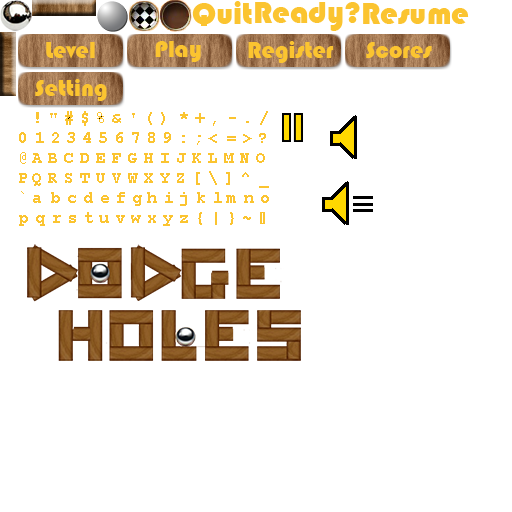
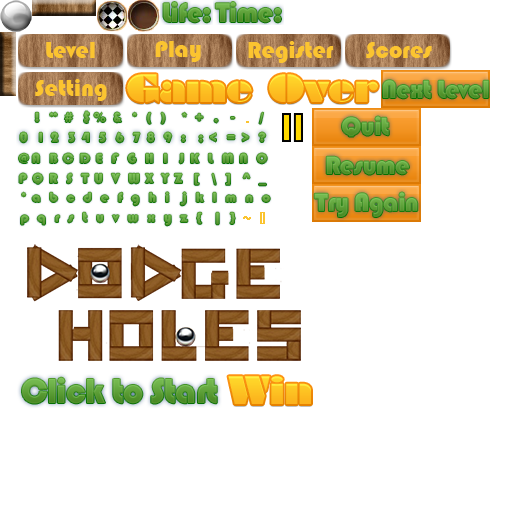
Perfezionamento parte grafica

diff --git a/DodgeHoles/src/it/unisa/dodgeholes/GameScreen.java b/DodgeHoles/src/it/unisa/dodgeholes/GameScreen.java
@@ -41,6 +41,8 @@ public class GameScreen extends GLScreen {
     Rectangle pauseBounds;
     Rectangle resumeBounds;
     Rectangle quitBounds;
+    Rectangle nextLevelBounds;
+    Rectangle tryAgainBounds;
       
     FPSCounter fpsCounter;
     
@@ -70,8 +72,11 @@ public class GameScreen extends GLScreen {
         world = new World(worldListener, this.numLevel);
         renderer = new WorldRenderer(glGraphics, batcher, world);
         pauseBounds = new Rectangle(480- 52, 320- 18-20, 40, 40);
-        resumeBounds = new Rectangle(240-55, 160-13, 110, 27);
-        quitBounds = new Rectangle(240-30, 160-27-13, 61, 27);
+        resumeBounds = new Rectangle(240-54, 160-19, 109, 38);
+        quitBounds = new Rectangle(240-54, 160-45-19, 109, 38);
+        nextLevelBounds = new Rectangle(240-54, 160-19, 109, 38);
+        tryAgainBounds = new Rectangle(240-54, 160-19, 109, 38);
+        
         
         fpsCounter = new FPSCounter();
         
@@ -183,11 +188,25 @@ public class GameScreen extends GLScreen {
 	        TouchEvent event = touchEvents.get(i);
 	        if(event.type != TouchEvent.TOUCH_UP)
 	            continue;
-	        this.counter=0;
-	        world = new World(worldListener,world.getNumLevel()+1);
-	        renderer = new WorldRenderer(glGraphics, batcher, world);
 	        
-	        state = GAME_READY;
+	        touchPoint.set(event.x, event.y);
+	        guiCam.touchToWorld(touchPoint);
+	        
+	        if(OverlapTester.pointInRectangle(nextLevelBounds, touchPoint)) {
+	            
+	        	this.counter=0;
+		        world = new World(worldListener,world.getNumLevel()+1);
+		        renderer = new WorldRenderer(glGraphics, batcher, world);
+		        state = GAME_READY;
+	            return;
+	        }
+	        
+	        if(OverlapTester.pointInRectangle(quitBounds, touchPoint)) {
+	            
+	            game.setScreen(new MainMenuScreen(game));
+	            return;
+	        }
+	        
 	    }
 	}
 	
@@ -198,7 +217,24 @@ public class GameScreen extends GLScreen {
 	        TouchEvent event = touchEvents.get(i);
 	        if(event.type != TouchEvent.TOUCH_UP)
 	            continue;
-	        game.setScreen(new MainMenuScreen(game));
+	        
+	        touchPoint.set(event.x, event.y);
+	        guiCam.touchToWorld(touchPoint);
+	        
+	        if(OverlapTester.pointInRectangle(tryAgainBounds, touchPoint)) {
+	            
+	        	this.counter=0;
+		        world = new World(worldListener,world.getNumLevel());
+		        renderer = new WorldRenderer(glGraphics, batcher, world);
+		        state = GAME_READY;
+	            return;
+	        }
+	        
+	        if(OverlapTester.pointInRectangle(quitBounds, touchPoint)) {
+	            
+	            game.setScreen(new MainMenuScreen(game));
+	            return;
+	        }
 	    }
 	}
 
@@ -240,33 +276,43 @@ public class GameScreen extends GLScreen {
 	
 	private void presentReady() 
 	{
-	    batcher.drawSprite(240, 160, 108, 32, Assets.ready);
-	    
-	    Assets.font.drawText(batcher, "Life:", 14, 320 - 18);
-	    Assets.font.drawText(batcher, "Time:"+(int)counter+"s", 240, 320 - 18);
+		batcher.drawSprite(35, 320 - 18, 53, 25, Assets.lifeWrite);
+	    batcher.drawSprite(260, 320 - 18, 71, 25, Assets.timeWrite);
+	    Assets.font.drawText(batcher,(int)counter+"s", 311, 320 - 18);
+		
+	    batcher.drawSprite(240, 160, 208, 38, Assets.ready);
 	}
 	
 	private void presentRunning() 
 	{
 	    batcher.drawSprite(480 - 32, 320 - 18, 40, 40, Assets.pause);
 	    
-	    Assets.font.drawText(batcher, "Life:", 14, 320 - 18);
-	    Assets.font.drawText(batcher, "Time:"+(int)counter+"s", 240, 320 - 18);
+	    batcher.drawSprite(35, 320 - 18, 53, 25, Assets.lifeWrite);
+	    batcher.drawSprite(260, 320 - 18, 71, 25, Assets.timeWrite);
+	    Assets.font.drawText(batcher,(int)counter+"s", 311, 320 - 18);
 	}
 	
 	private void presentPaused() 
 	{ 
-		Assets.font.drawText(batcher, "Life:", 14, 320 - 18);
-	    Assets.font.drawText(batcher, "Time:"+(int)counter+"s", 240, 320 - 18);
 		
-	    batcher.drawSprite(240, 160, 110, 27, Assets.resume);
-	    batcher.drawSprite(240, 160-27, 61, 27, Assets.quit);
+		batcher.drawSprite(35, 320 - 18, 53, 25, Assets.lifeWrite);
+	    batcher.drawSprite(260, 320 - 18, 71, 25, Assets.timeWrite);
+	    Assets.font.drawText(batcher,(int)counter+"s", 311, 320 - 18);
+	    
+	    batcher.drawSprite(240, 160, 109, 38, Assets.resume);
+	    batcher.drawSprite(240, 160-45, 109, 38, Assets.quit);
 	    
 	}
 	
 	private void presentLevelEnd()
 	{
-		Assets.font.drawText(batcher, "CLICK TO NEXT LEVEL", 200, 160);
+		batcher.drawSprite(35, 320 - 18, 53, 25, Assets.lifeWrite);
+	    batcher.drawSprite(260, 320 - 18, 71, 25, Assets.timeWrite);
+	    Assets.font.drawText(batcher,(int)counter+"s", 311, 320 - 18);
+		
+		batcher.drawSprite(240, 200, 92, 38, Assets.win);
+		batcher.drawSprite(240, 160, 109, 38, Assets.nextLevel);
+		batcher.drawSprite(240, 160-45, 109, 38, Assets.quit);
 		/*Ho commentato per poter gestire i messaggi di fine livello
 		SQLiteDatabase db = this.database.getReadableDatabase();
 		String sql = "SELECT * FROM access where livello=\"Livello"+numLevel+"\"";
@@ -298,7 +344,13 @@ public class GameScreen extends GLScreen {
 	
 	private void presentGameOver() 
 	{
-		Assets.font.drawText(batcher, "GAME OVER", 240, 160);
+		batcher.drawSprite(35, 320 - 18, 53, 25, Assets.lifeWrite);
+	    batcher.drawSprite(260, 320 - 18, 71, 25, Assets.timeWrite);
+	    Assets.font.drawText(batcher,(int)counter+"s", 311, 320 - 18);
+		
+		 batcher.drawSprite(240, 200, 256, 38, Assets.gameOver);
+		 batcher.drawSprite(240, 160, 109, 38, Assets.tryAgain);
+		 batcher.drawSprite(240, 160-45, 109, 38, Assets.quit);
 	}
 	
 	

diff --git a/DodgeHoles/src/it/unisa/dodgeholes/Assets.java b/DodgeHoles/src/it/unisa/dodgeholes/Assets.java
@@ -20,6 +20,8 @@ public class Assets {
     public static Texture myitem;
     
     public static TextureRegion life;
+    public static TextureRegion lifeWrite;
+    public static TextureRegion timeWrite;
     
     public static TextureRegion play;
     public static TextureRegion level;
@@ -30,10 +32,10 @@ public class Assets {
     public static TextureRegion resume;
     public static TextureRegion quit;
     public static TextureRegion ready;
+    public static TextureRegion nextLevel;
+    public static TextureRegion tryAgain;
     
     public static TextureRegion logo;
-    //public static TextureRegion soundOn;
-    //public static TextureRegion soundOff;
     
     public static TextureRegion pause;   
    
@@ -42,6 +44,9 @@ public class Assets {
     public static TextureRegion endHole;
     public static TextureRegion obstacleH;
     public static TextureRegion obstacleV;
+    
+    public static TextureRegion gameOver;
+    public static TextureRegion win;
     
     
     public static Music music;
@@ -67,7 +72,9 @@ public class Assets {
         
         
         
-        life=new TextureRegion(myitem,96,0,32,32);
+        life=new TextureRegion(myitem,0,0,32,32);
+        lifeWrite=new TextureRegion(myitem,160,0,53,25);
+        timeWrite=new TextureRegion(myitem,213,0,71,25);
         
         play=new TextureRegion(myitem,125,32,109,38);
         scores=new TextureRegion(myitem,343,32,109,38);
@@ -75,23 +82,26 @@ public class Assets {
         setting=new TextureRegion(myitem,17,70,109,38);
         register=new TextureRegion(myitem,234,32,109,38);
         
-        resume=new TextureRegion(myitem, 361, 0, 110, 27);
-        quit=new TextureRegion(myitem, 192, 0, 61, 27);
+        resume=new TextureRegion(myitem, 312, 146, 109, 38);
+        quit=new TextureRegion(myitem, 312, 108, 109, 38);
+        nextLevel=new TextureRegion(myitem, 381, 70, 109, 38);
+        tryAgain=new TextureRegion(myitem, 312, 184, 109, 38);
         
-        ready = new TextureRegion(myitem, 253, 0, 108, 32);//
+        ready = new TextureRegion(myitem, 16, 371, 208, 38);//
         
         logo = new TextureRegion(myitem, 16, 236, 300, 135);//
-        //soundOff = new TextureRegion(myitem, 312, 108, 64, 64);//
-        //soundOn = new TextureRegion(myitem, 312, 172, 64, 64);//
-       
+        
         pause = new TextureRegion(myitem, 272, 108, 40, 40);//
         
        
         ball = new TextureRegion(myitem, 0, 0, 32, 32);
-        hole = new TextureRegion(myitem, 160, 0, 32, 32);
-        endHole = new TextureRegion(myitem, 128, 0, 32, 32);
+        hole = new TextureRegion(myitem, 128, 0, 32, 32);
+        endHole = new TextureRegion(myitem, 96, 0, 32, 32);
         obstacleH=new TextureRegion(myitem, 32, 0, 64, 16);
         obstacleV=new TextureRegion(myitem, 0, 32, 16, 64);
+        
+        gameOver=new TextureRegion(myitem, 125, 70, 256, 38);
+        win=new TextureRegion(myitem, 224, 371, 92, 38);
         
         
         font = new Font(myitem, 16, 108, 16, 16, 20);

diff --git a/DodgeHoles/src/it/unisa/dodgeholes/Level1.java b/DodgeHoles/src/it/unisa/dodgeholes/Level1.java
@@ -19,36 +19,30 @@ public class Level1 implements Level {
 		obstaclesH=generateObstaclesH();
 		obstaclesV=generateObstaclesV();
 		lifes=generateLifes();
-		endHole=new EndHole(13.9f,2f);
+		endHole=new EndHole(13.9f,8f);
 	}
 	
 	private ArrayList<Hole> generateHoles()
 	{
 		ArrayList<Hole> h=new ArrayList<Hole>();
-		Hole h1=new Hole(3.6f,7.4f);
-		Hole h2=new Hole(5.1f,6.5f);
-		Hole h3=new Hole(8f,5.1f);
-		Hole h4=new Hole(13.5f,3.2f);
+		Hole h1=new Hole(1f,6f);
+		Hole h2=new Hole(3f,1.9f);
+		Hole h3=new Hole(7.5f,7.5f);
+		Hole h4=new Hole(12f,1.9f);
+		
 		
 		h.add(h1);
 		h.add(h2);
 		h.add(h3);
 		h.add(h4);
+		
 		return h;
 	}
 	
 	private ArrayList<ObstacleH> generateObstaclesH()
 	{
 		ArrayList<ObstacleH> o=new ArrayList<ObstacleH>();
-		ObstacleH o1=new ObstacleH(1.4f,7.5f);
-		ObstacleH o2=new ObstacleH(2.4f,5f);
-		ObstacleH o3=new ObstacleH(5.2f,5.3f);
-		ObstacleH o4=new ObstacleH(10.1f,4.1f);
 		
-		o.add(o1);
-		o.add(o2);
-		o.add(o3);
-		o.add(o4);
 		
 		return o;
 	}
@@ -56,10 +50,25 @@ public class Level1 implements Level {
 	private ArrayList<ObstacleV> generateObstaclesV()
 	{
 		ArrayList<ObstacleV> o=new ArrayList<ObstacleV>();
-		ObstacleV o1=new ObstacleV(3f,2.5f);
-		
+		ObstacleV o1=new ObstacleV(3f,7.9f);
+		ObstacleV o2=new ObstacleV(3f,5.8f);
+		ObstacleV o3=new ObstacleV(3f,3.7f);
+		ObstacleV o4=new ObstacleV(7.5f,1.5f);
+		ObstacleV o5=new ObstacleV(7.5f,3.6f);
+		ObstacleV o6=new ObstacleV(7.5f,5.7f);
+		ObstacleV o7=new ObstacleV(12f,7.9f);
+		ObstacleV o8=new ObstacleV(12f,5.8f);
+		ObstacleV o9=new ObstacleV(12f,3.7f);
 		
 		o.add(o1);
+		o.add(o2);
+		o.add(o3);
+		o.add(o4);
+		o.add(o5);
+		o.add(o6);
+		o.add(o7);
+		o.add(o8);
+		o.add(o9);
 		
 		return o;
 	}

diff --git a/DodgeHoles/src/it/unisa/dodgeholes/World.java b/DodgeHoles/src/it/unisa/dodgeholes/World.java
@@ -100,17 +100,34 @@ private void updateBall(float deltaTime, float accelX, float accelY) {
     {
 		ball.velocity.x = -accelX /7*Ball.BALL_MOVE_VELOCITY;
         ball.velocity.y=-accelY/5*Ball.BALL_MOVE_VELOCITY;
-        //Log.d("vely", ""+ball.velocity.y);
     }
     else
     {
-    	ball.velocity.x = (-accelX /7*Ball.BALL_MOVE_VELOCITY)%7;//Mantengo la velocita' verticale sotto una certa soglia
-        ball.velocity.y=(-accelY/5*Ball.BALL_MOVE_VELOCITY)%5;//Mantengo la velocita' sotto una certa soglia per evitare che superi l'ostacolo
+    	//Controllo velocita' in modo che si mantenga sotto una certa soglia 
+    	
+    	if((-accelX /7*Ball.BALL_MOVE_VELOCITY)<-7)
+    		ball.velocity.x=-7;
+    	else
+    	{
+    		if((-accelX /7*Ball.BALL_MOVE_VELOCITY)>7)
+    			ball.velocity.x=7;
+    		else
+    			ball.velocity.x=-accelX /7*Ball.BALL_MOVE_VELOCITY;
+    	}
+    	
+    	if((-accelY/5*Ball.BALL_MOVE_VELOCITY)<-7)
+    		ball.velocity.y=-7;
+    	else
+    	{
+    		if((-accelY/5*Ball.BALL_MOVE_VELOCITY)>7)
+    			ball.velocity.y=7;
+    		else
+    			ball.velocity.y=(-accelY/5*Ball.BALL_MOVE_VELOCITY);
+    	}
     }
     
     ball.update(deltaTime);
-    
-    
+ 
 }
 
 
